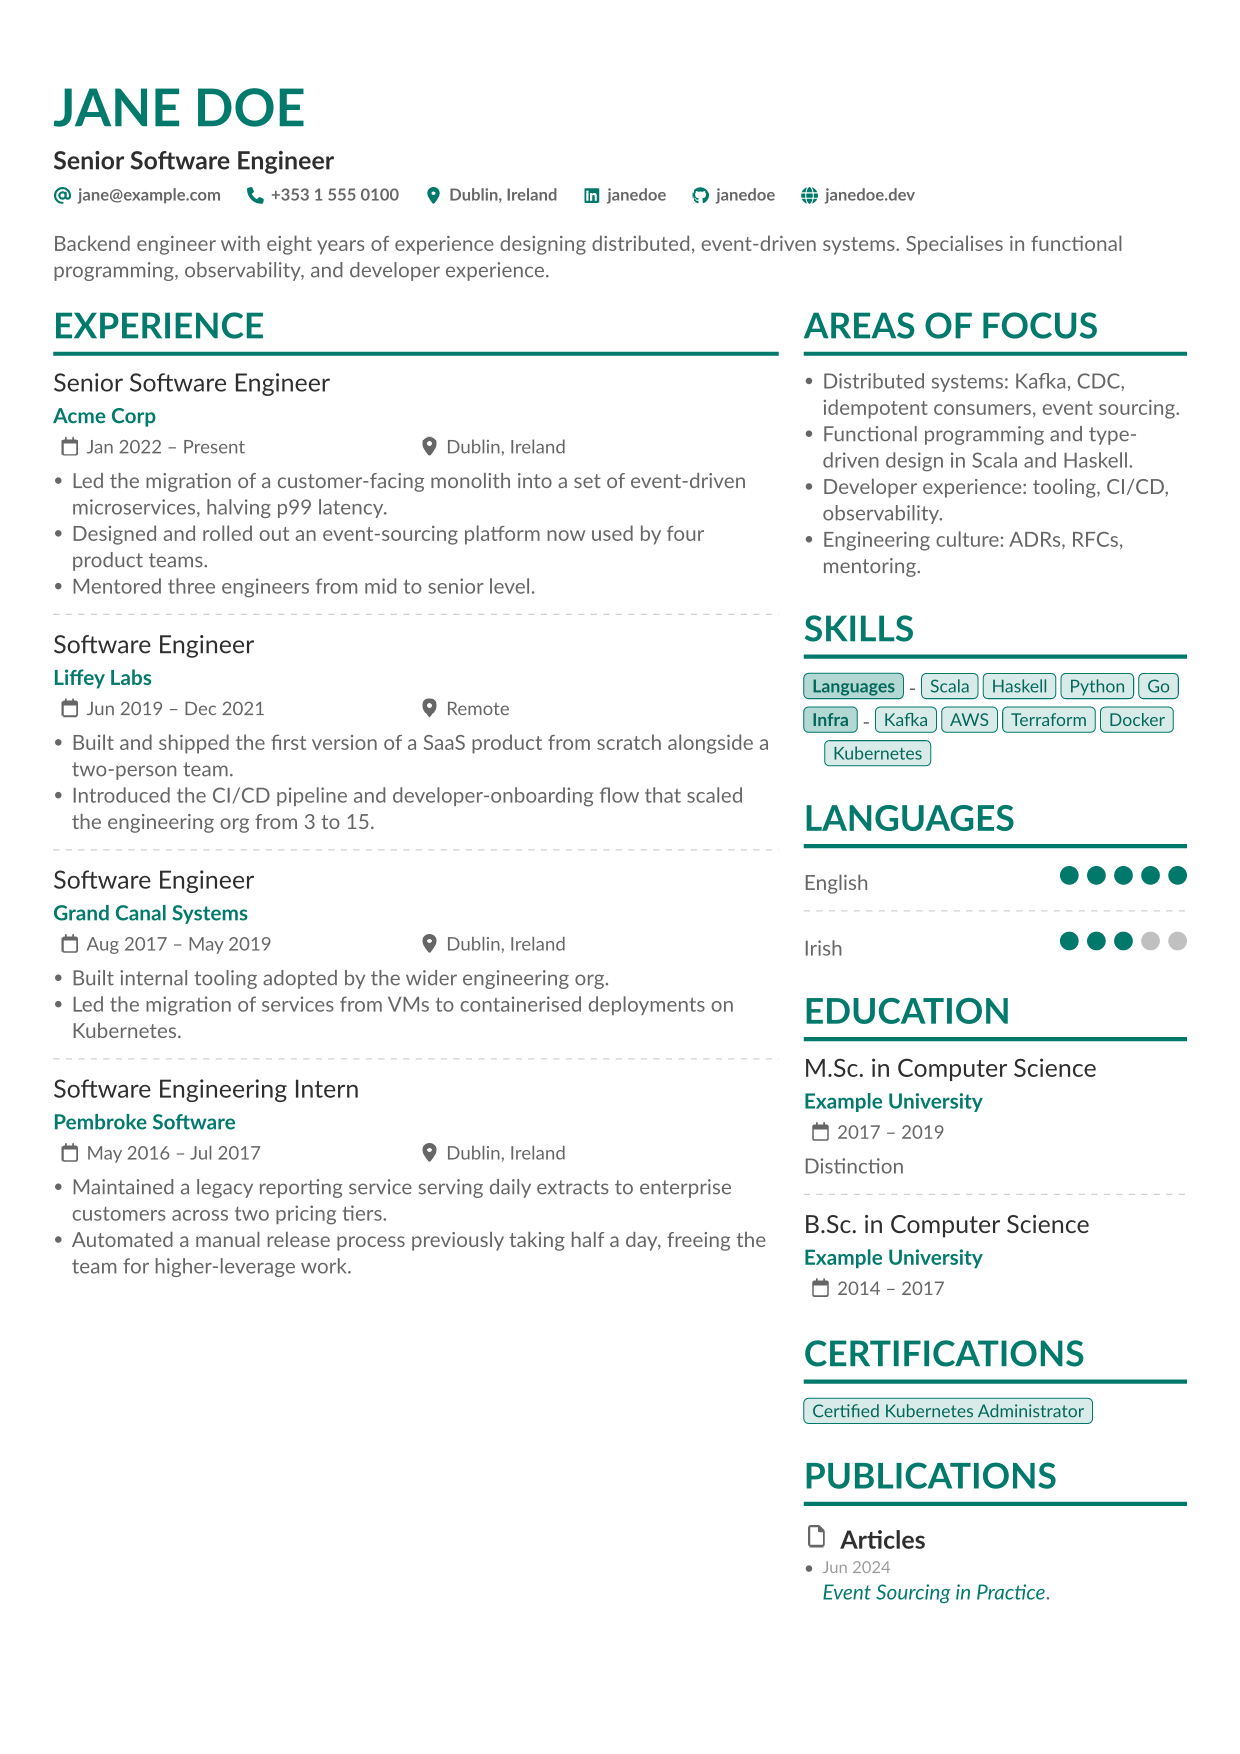
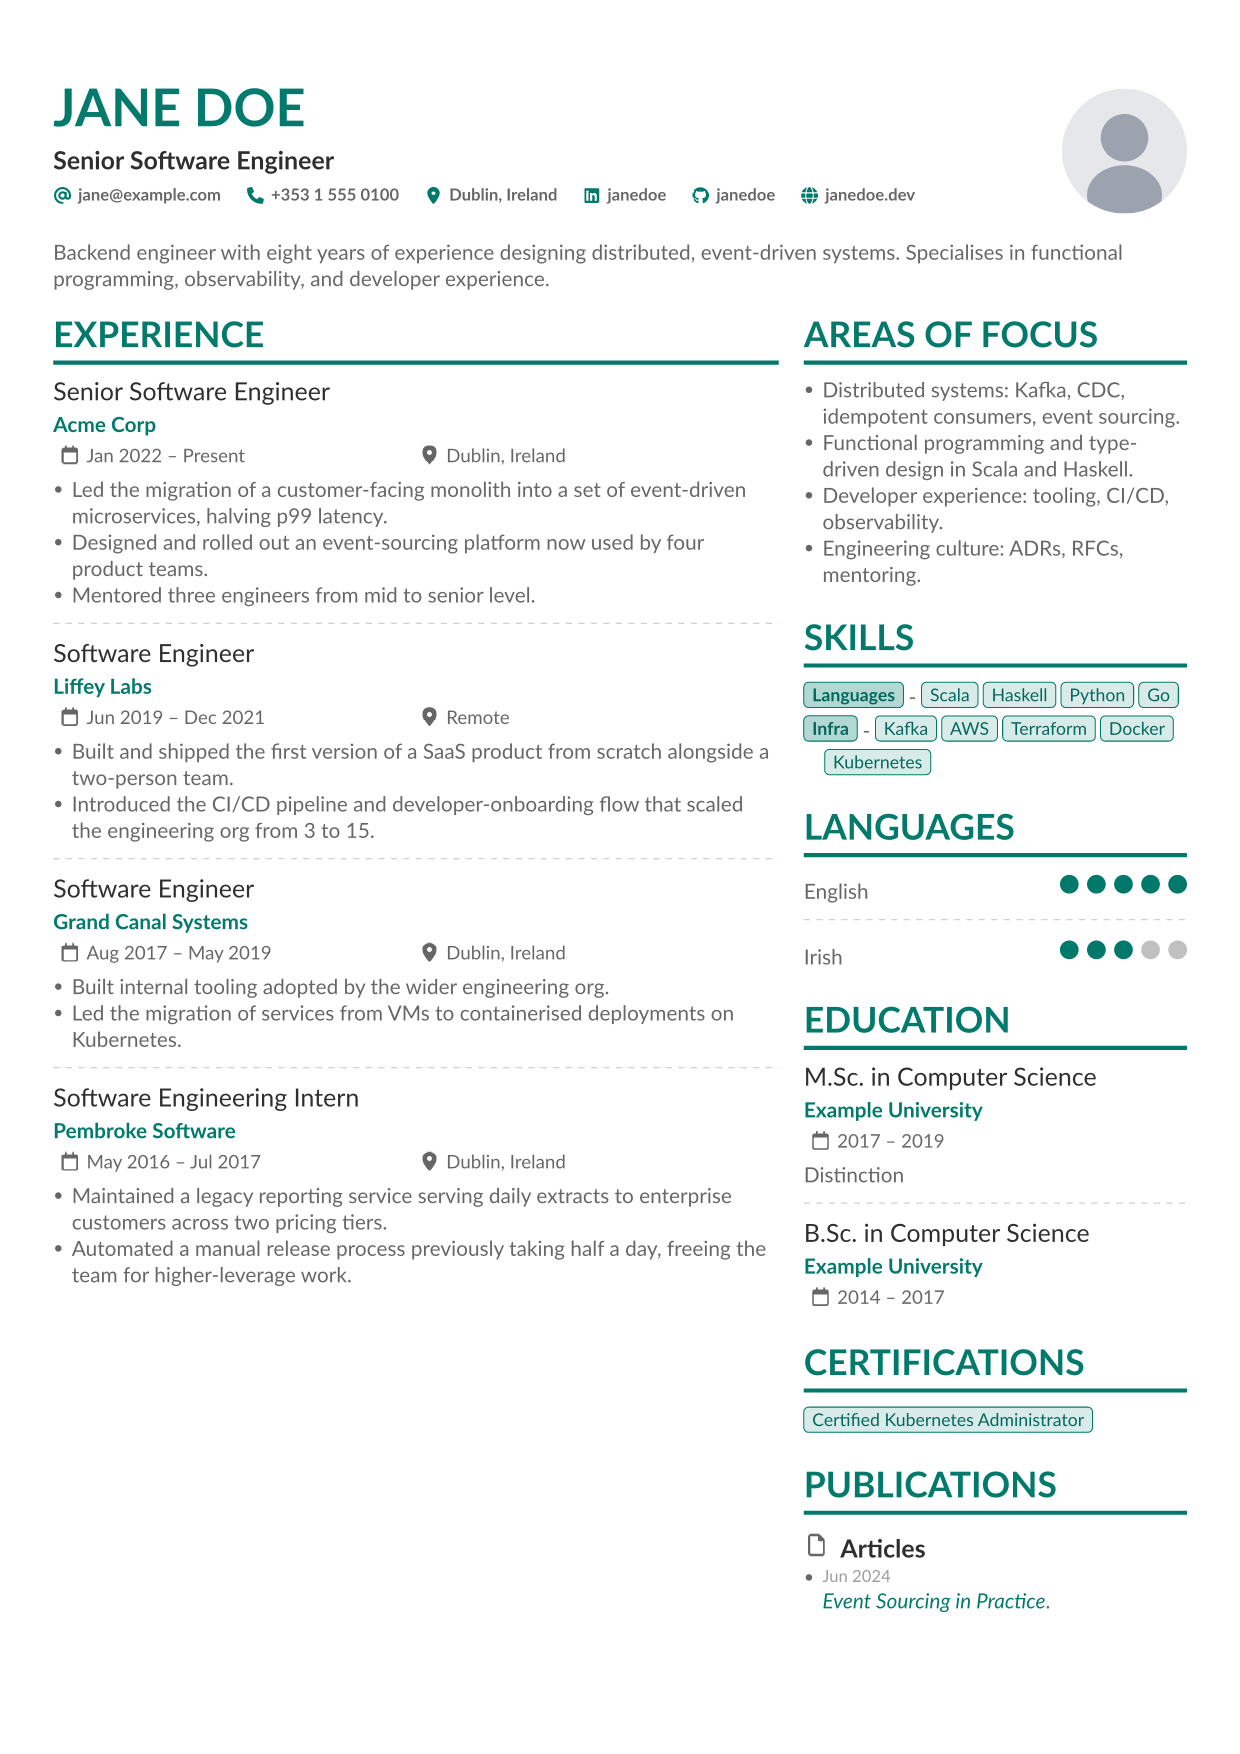
feat: add basics.image circular portrait in the header (#29)
## Summary

Implements #22. When \`basics.image\` is set, the header gains a
circular portrait in the top-right slot. The header layout switches from
single-column to a two-column grid (text left, photo right) only when an
image is supplied — no-image documents render unchanged.

## API

\`\`\`typst
basics: (
  name: \"Jane Doe\",
  // ...
  // Recommended: read bytes in the caller's typ file.
  image: read(\"avatar.png\", encoding: none),
),
\`\`\`

A root-relative string path (\`/avatar.png\`) is also accepted for
callers using \`--root\`. JSON Resume's URL form is **not** supported —
Typst doesn't fetch remote URLs at compile time. Vendor the asset
locally.

Size is configurable via \`preferences.imageSize\` (default \`6em\`).
The image is fit with \`cover\` and clipped via \`box(clip: true,
radius: 50%)\`, so rectangular sources crop centred rather than distort.

## Layout

\`\`\`
[NAME NAME NAME            ] [photo]
[Senior Software Engineer  ]
[email • phone • location  ]
\`\`\`

The text column stays fluid (\`1fr\`); the image column is
\`auto\`-sized to \`imageSize\`. \`align: top\` keeps the photo anchored
to the top of the name block rather than vertically centred.

## Test plan

- [x] New fixture \`tests/basics_image.typ\` covers three cases:
  - bytes form (recommended)
  - root-relative string path
  - custom \`imageSize: 8em\`
- [x] New demo render \`examples/example_with_photo.typ\` — a full
one-page CV with the portrait wired up. Compiles in 1 page.
[…]

Changed region(s): [[0.0306, 0.0308, 0.9806, 0.9236]]

diff --git a/README.md b/README.md
@@ -75,7 +75,32 @@ An empty or missing `endDate` is interpreted as the role still being current and
 
 Top-level keys recognised: `basics`, `focusAreas`, `work`, `skills`, `languages`, `education`, `certificates`, `publications`. Any section with empty input is skipped — no orphan headings.
 
-JSON Resume keys **not yet rendered** by this template: `awards`, `interests` (the structured `{name, keywords}` form — see `focusAreas` for the prose alternative), `projects`, `volunteer`, `references`, `meta`, `basics.image`, `basics.url`. Track or upvote feature requests on the issue tracker if you need any of them.
+JSON Resume keys **not yet rendered** by this template: `awards`, `interests` (the structured `{name, keywords}` form — see `focusAreas` for the prose alternative), `projects`, `volunteer`, `references`, `meta`, `basics.url`. Track or upvote feature requests on the issue tracker if you need any of them.
+
+### Portrait (`basics.image`)
+
+Setting `basics.image` adds a circular portrait to the top-right of the header. Two ways to supply the source:
+
+```typst
+// Recommended: load the bytes in your own typ file. Path resolution
+// happens at your call site, so relative paths "just work".
+basics: (
+  image: read("avatar.png", encoding: none),
+  ...
+)
+
+// Alternative: a root-relative path (leading "/", anchored to the
+// `--root` directory passed to `typst compile`). String paths without
+// a leading "/" resolve relative to `lib.typ` and are not portable.
+basics: (
+  image: "/avatar.png",
+  ...
+)
+```
+
+JSON Resume's spec calls for a URL here — Typst does not fetch remote URLs at compile time, so a https:// URL will not work. Vendor the asset locally and use one of the two forms above.
+
+Size is configurable via `preferences.imageSize` (default `6em`). The image is fit with `cover` and clipped to a circle, so rectangular sources crop centred rather than distort.
 
 ### Profile networks
 
@@ -105,6 +130,7 @@ Theme + behaviour configuration. Override any subset via `preferences:`; the res
 |---|---|---|
 | `accent` | `rgb("#00796B")` | Theme colour for headings, accent rules, tags, dots. |
 | `groupCertificates` | `true` | When true, group certificates by issuer (2+ certs from the same issuer cluster; singletons pool into a final "other" group). When false, render flat. |
+| `imageSize` | `6em` | Diameter of the circular portrait when `basics.image` is set. Ignored when no image is supplied. |
 
 Example:
 
@@ -112,6 +138,7 @@ Example:
 #alta(cv, preferences: (
   accent: rgb("#1976D2"),
   groupCertificates: false,
+  imageSize: 7em,
 ))
 ```
 
